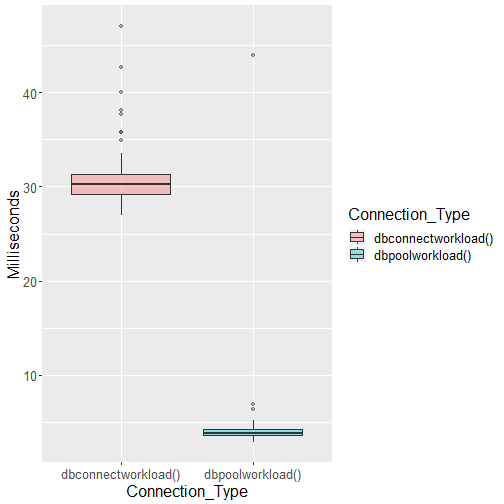
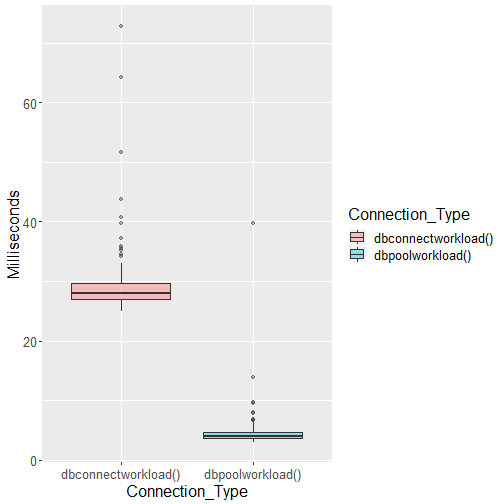
Pres_Stuf

diff --git a/01-Presentation/Presentation.html b/01-Presentation/Presentation.html
@@ -4,7 +4,7 @@
     <title>Building Your First Shiny Database Application</title>
     <meta charset="utf-8" />
     <meta name="author" content="Matthew Sharkey | msharkey3434@gmail.com" />
-    <meta name="date" content="2019-04-01" />
+    <meta name="date" content="2019-04-02" />
     <link href="libs/remark-css/default.css" rel="stylesheet" />
     <link href="libs/remark-css/default-fonts.css" rel="stylesheet" />
   </head>
@@ -14,7 +14,7 @@ class: center, middle, inverse, title-slide
 
 # Building Your First Shiny Database Application
 ### Matthew Sharkey | <a href="mailto:msharkey3434@gmail.com">msharkey3434@gmail.com</a>
-### 2019-04-01
+### 2019-04-02
 
 ---
 
@@ -28,6 +28,12 @@ class: center, middle, inverse, title-slide
 
 Matthew Sharkey, MBA, MS-BIA | Data Engineer @ HDR
 
+
+
+![](c:/users/mshar/Desktop/41gaw7rAUFL._SY355_.jpg)
+
+
+
 ---
 
 # Agenda
@@ -38,6 +44,7 @@ Matthew Sharkey, MBA, MS-BIA | Data Engineer @ HDR
 
 3. Performance &amp; Optimization
 
+
 ---
 
 # Why use an RDBMS?
@@ -47,19 +54,19 @@ Matthew Sharkey, MBA, MS-BIA | Data Engineer @ HDR
 
 --
 
-  + Indexing
+  + Indexing - Ordering data by a key e.g. last names in a phone book
 
 --
 
-  + Parallelism
+  + Parallelism - Query Optimizer decides when to use parallelism based on cost estimates
 
 --
 
-- Stability
+- Stability - In 1974, IBM began developing first RDBMS
 
 --
 
-- Security
+- Security - Auditing, Encryption, Data Control Language (DCL)
 
 --
 
@@ -67,7 +74,7 @@ Matthew Sharkey, MBA, MS-BIA | Data Engineer @ HDR
 
 --
 
-- Change Tracking
+- Historical Tracking - Temporal Tables, Slowly Changing Dimensions, Triggers
 
 --
 
@@ -118,7 +125,7 @@ dbGetQuery(myconnection,"Select GetDate()")
 
 ```
 ##                      
-## 1 2019-04-01 20:34:45
+## 1 2019-04-02 22:14:04
 ```
 
 ```r
@@ -180,6 +187,8 @@ rs &lt;- microbenchmark(dbconnectworkload()
 ```
 
 ---
+
+## Manual vs Pool Benchmark Results
 
 &lt;img src="Presentation_files/figure-html/boxplot-1.png" style="display: block; margin: auto;" /&gt;
 
@@ -276,15 +285,20 @@ dbExecute(con,
 
 --
 
+---
+
+## Benchmark with Index
+
+The tables have turned
+
 &lt;img src="Presentation_files/figure-html/boxplot3-1.png" style="display: block; margin: auto;" /&gt;
 
 
 
 
 
---
-&lt;br&gt;
-The tables have turned.
+
+
 
 ---
 
@@ -344,7 +358,7 @@ trips_db %&gt;%
 
 --
 
-- Per FPOC, start with tpep_dropoff_datetime and trip_distance
+- Per FOC, start with tpep_dropoff_datetime and trip_distance
 
 --
 
@@ -358,7 +372,7 @@ ON yellow_trip(tpep_dropoff_datetime,trip_distance)
 
 - Test performance before and after index
 
-- Indexing trade-off = faster reads, slower writes
+- Indexing trade-off = slower writes
 
 ---
 
@@ -366,6 +380,34 @@ ON yellow_trip(tpep_dropoff_datetime,trip_distance)
 
 - Yellow Cab Dashboard
 
+
+```
+## 
+## Attaching package: 'shinydashboard'
+```
+
+```
+## The following object is masked from 'package:graphics':
+## 
+##     box
+```
+
+```
+## 
+## Attaching package: 'lubridate'
+```
+
+```
+## The following object is masked from 'package:base':
+## 
+##     date
+```
+
+```
+## PhantomJS not found. You can install it with webshot::install_phantomjs(). If it is installed, please make sure the phantomjs executable can be found via the PATH variable.
+```
+
+<div style="width: 100% ; height: 400px ; text-align: center; box-sizing: border-box; -moz-box-sizing: border-box; -webkit-box-sizing: border-box;" class="muted well">Shiny applications not supported in static R Markdown documents</div>
 
 ---
 
